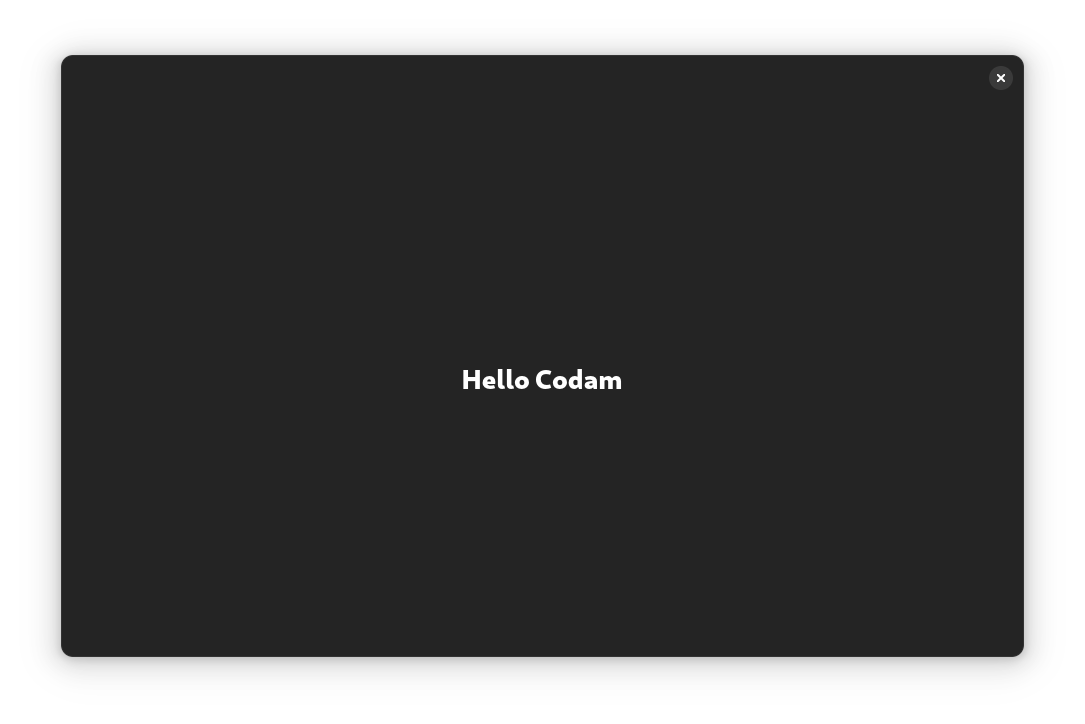
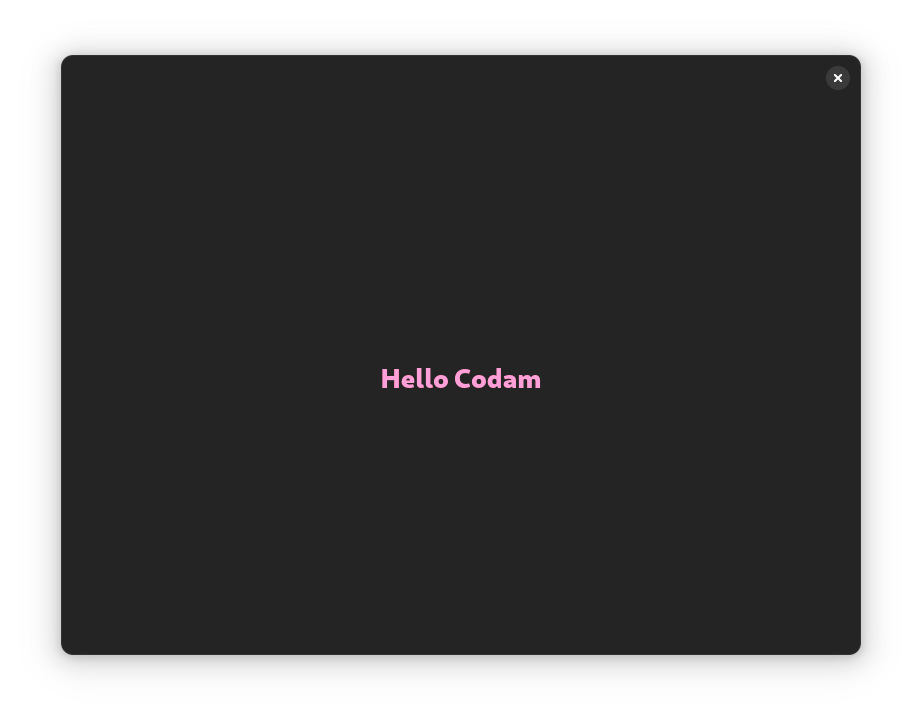
Add accent color for text

Changed region(s): [[0.0304, 0.0609, 0.0911, 0.9141], [0.9111, 0.0609, 0.9718, 0.9141], [0.3948, 0.4875, 0.6074, 0.5485]]

diff --git a/src/main.c b/src/main.c
@@ -6,7 +6,7 @@
 /*   By: mgolubev <mgolubev@student.codam.nl>          +#+                    */
 /*                                                    +#+                     */
 /*   Created: 2024/10/24 20:33:50 by mgolubev       #+#    #+#                */
-/*   Updated: 2024/10/24 21:40:37 by mgolubev       ########   odam.nl        */
+/*   Updated: 2024/10/25 14:42:51 by mgolubev       ########   odam.nl        */
 /*                                                                            */
 /* ************************************************************************** */
 
@@ -33,6 +33,7 @@ static AdwStatusPage *f_new_status_page(void)
 	gtk_widget_set_hexpand(GTK_WIDGET(status_page), TRUE);
 	gtk_widget_set_vexpand(GTK_WIDGET(status_page), TRUE);
 	adw_status_page_set_title(status_page, "Hello Codam");
+	gtk_widget_add_css_class(GTK_WIDGET(status_page), "accent");
 	return (status_page);
 }
 
